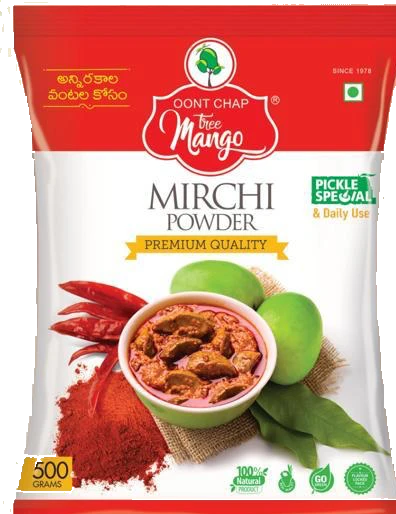
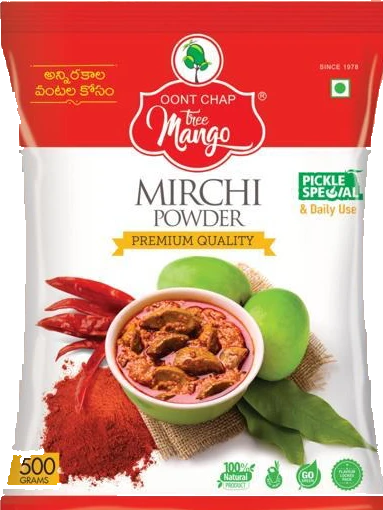
Three Mango Mirchi pack image: clean edge specks and fringe
Keeps the sharper poster cut-out; removes detached specks (largest connected
region only) and wood-coloured fringe along the outline.

diff --git a/frontend/assets/images/SOURCES.md b/frontend/assets/images/SOURCES.md
@@ -9,4 +9,4 @@ Derived web images and the repository original they come from (originals in `Ima
 | `recipes/tomato-rasam.webp` | `~/Downloads/Spice mama art/Rasam.jpg` | near-white made transparent, square crop (45% across), 1000×1000, WebP q84 |
 | `recipes/vegetable-sambar.webp` | `~/Downloads/Spice mama art/Sambar.jpg` | near-white made transparent, square crop (bottom), 1000×1000 |
 | `recipes/aloo-methi-fry.webp` | `~/Downloads/Spice mama art/kasuri methi copy.png` | transparent background kept, square crop (84% down), 1000×1000 |
-| `packs/oont-chap-three-mango-mirchi-powder.webp` | Three Mango "Mirchi Powder" pickle poster (owner-supplied, 960×1280) | pouch cropped from the poster, wooden background removed by colour flood-fill from the edges, 396×514, WebP q90. Low resolution: replace with the original pack mockup when available |
+| `packs/oont-chap-three-mango-mirchi-powder.webp` | Three Mango "Mirchi Powder" pickle poster (owner-supplied, 960×1280) | pouch cropped from the poster, wooden background removed (colour flood-fill from the edges), detached specks and wood-coloured edge fringe cleaned, 383×510, WebP q90. Low resolution: replace with the original pack mockup when available |
